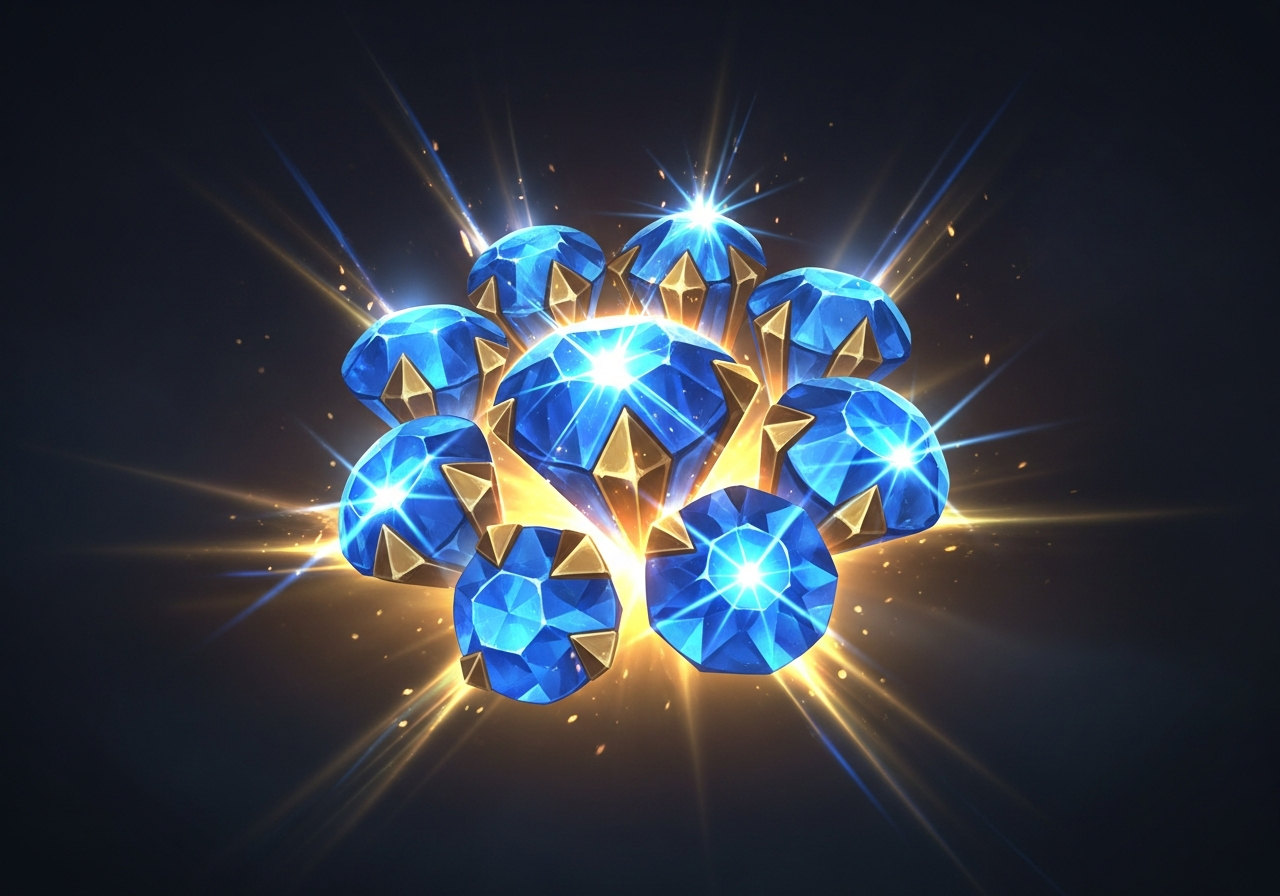
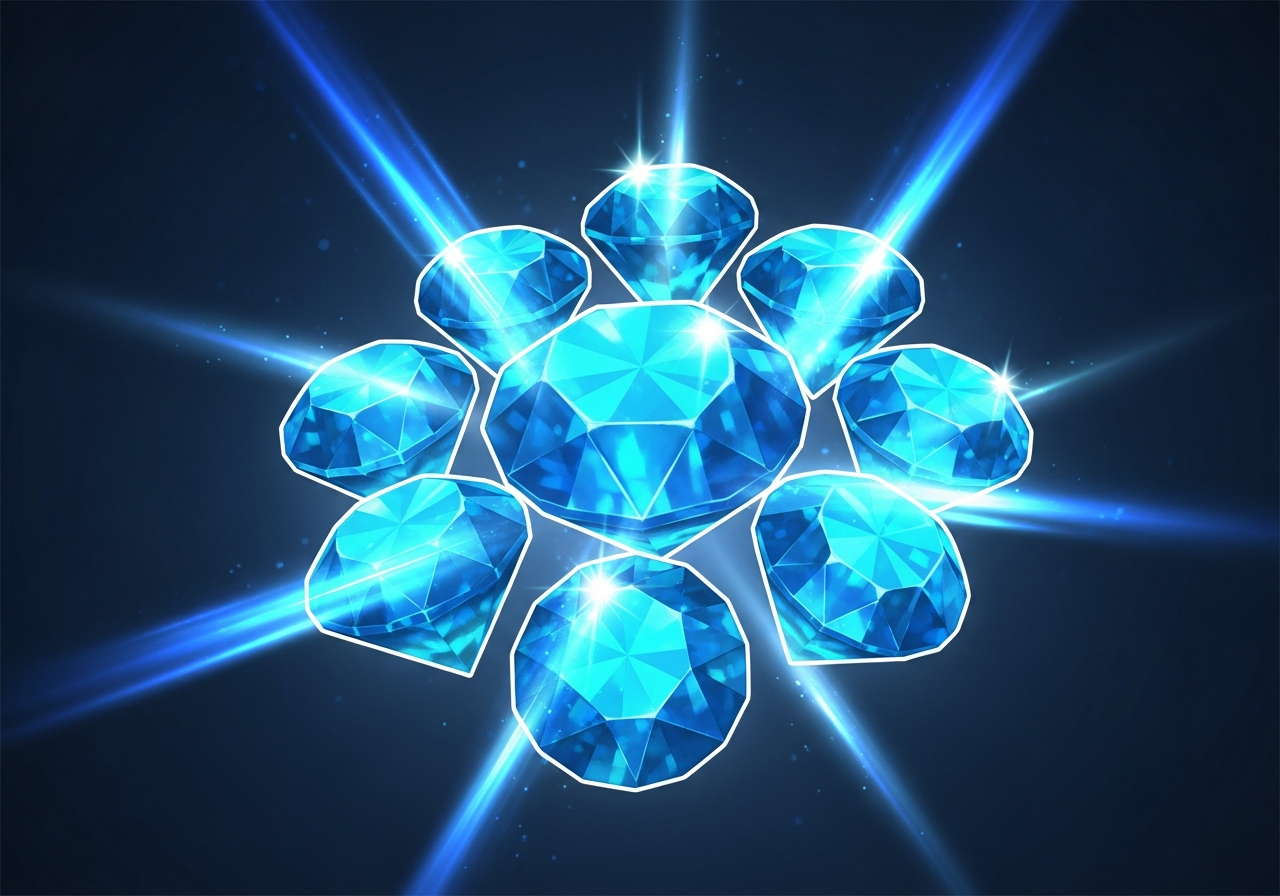
Update diamond images and animations to match game style
Fixes pack2.png to use only blue diamonds and updates SVG diamond animations in the PackagesSection.tsx to reflect the in-game MLBB 💎 style.

Replit-Commit-Author: Agent
Replit-Commit-Session-Id: 5e2ca1c8-3d09-4ccd-abc2-e811ee2ced2d
Replit-Commit-Checkpoint-Type: full_checkpoint
Replit-Commit-Event-Id: d2e871dd-0746-48d0-bce8-9e4ee957b2bf
Replit-Commit-Screenshot-Url: https://storage.googleapis.com/screenshot-production-us-central1/4ffd6c87-2c8b-4ada-9f70-06d95df73bbb/5e2ca1c8-3d09-4ccd-abc2-e811ee2ced2d/dw79hCr
Replit-Helium-Checkpoint-Created: true

diff --git a/artifacts/sky-official/src/components/PackagesSection.tsx b/artifacts/sky-official/src/components/PackagesSection.tsx
@@ -37,48 +37,75 @@ const CATEGORIES: Category[] = [
 
 // ── Animated Panels ─────────────────────────────────────────────────────────
 
+// MLBB-style 💎 diamond: flat-top crown + pointed pavilion
+function MLBBDiamond({ cx, cy, hw, gradId, opacity = 1, style }: {
+  cx: number; cy: number; hw: number; gradId: string; opacity?: number; style?: React.CSSProperties;
+}) {
+  // Outer shape (5 pts): table-left, table-right, belt-right, bottom, belt-left
+  const tl = `${cx - hw * 0.62},${cy - hw}`;
+  const tr = `${cx + hw * 0.62},${cy - hw}`;
+  const br = `${cx + hw},${cy - hw * 0.28}`;
+  const bl = `${cx - hw},${cy - hw * 0.28}`;
+  const bot = `${cx},${cy + hw}`;
+  // Belt y (for internal facet lines)
+  const by = cy - hw * 0.28;
+  // Inner crown highlight (bright trapezoid centred on table)
+  const hl = `${cx - hw * 0.32},${cy - hw} ${cx + hw * 0.32},${cy - hw} ${cx + hw * 0.2},${cy - hw * 0.55} ${cx - hw * 0.2},${cy - hw * 0.55}`;
+  return (
+    <g style={style} opacity={opacity}>
+      {/* Main body */}
+      <polygon points={`${tl} ${tr} ${br} ${bot} ${bl}`} fill={`url(#${gradId})`} />
+      {/* Crown face (slightly lighter overlay) */}
+      <polygon points={`${tl} ${tr} ${br} ${bl}`} fill="rgba(180,230,255,0.18)" />
+      {/* Crown table highlight */}
+      <polygon points={hl} fill="rgba(255,255,255,0.5)" />
+      {/* Left pavilion face */}
+      <polygon points={`${bl} ${cx},${by} ${bot}`} fill="rgba(0,55,150,0.38)" />
+      {/* Right pavilion face */}
+      <polygon points={`${br} ${cx},${by} ${bot}`} fill="rgba(0,30,120,0.5)" />
+      {/* Belt edge highlight line */}
+      <line x1={cx - hw} y1={by} x2={cx + hw} y2={by} stroke="rgba(255,255,255,0.28)" strokeWidth="0.6" />
+      {/* Centre pavilion ridge */}
+      <line x1={cx} y1={by} x2={cx} y2={cy + hw} stroke="rgba(255,255,255,0.18)" strokeWidth="0.5" />
+    </g>
+  );
+}
+
 function SmallPackAnim() {
   return (
     <svg viewBox="0 0 120 80" width="100%" height="100%" style={{ display: "block" }}>
       <defs>
-        <radialGradient id="sp-glow" cx="50%" cy="50%" r="50%">
-          <stop offset="0%" stopColor="#38bdf8" stopOpacity="0.18" />
+        <radialGradient id="sp-glow" cx="50%" cy="55%" r="52%">
+          <stop offset="0%" stopColor="#38bdf8" stopOpacity="0.22" />
           <stop offset="100%" stopColor="#0ea5e9" stopOpacity="0" />
         </radialGradient>
-        <linearGradient id="sp-d1" x1="0%" y1="0%" x2="100%" y2="100%">
-          <stop offset="0%" stopColor="#bae6fd" />
+        <linearGradient id="sp-d1" x1="0%" y1="0%" x2="60%" y2="100%">
+          <stop offset="0%" stopColor="#93e8ff" />
+          <stop offset="50%" stopColor="#38bdf8" />
+          <stop offset="100%" stopColor="#0369a1" />
+        </linearGradient>
+        <linearGradient id="sp-d2" x1="0%" y1="0%" x2="60%" y2="100%">
+          <stop offset="0%" stopColor="#e0f9ff" />
+          <stop offset="45%" stopColor="#7dd3fc" />
           <stop offset="100%" stopColor="#0284c7" />
         </linearGradient>
-        <linearGradient id="sp-d2" x1="0%" y1="0%" x2="100%" y2="100%">
-          <stop offset="0%" stopColor="#e0f2fe" />
-          <stop offset="100%" stopColor="#38bdf8" />
-        </linearGradient>
       </defs>
-      <ellipse cx="60" cy="52" rx="38" ry="14" fill="url(#sp-glow)" />
-      {/* Diamond 1 – left, small */}
-      <g style={{ animation: "sp-bob1 2.4s ease-in-out infinite", transformOrigin: "33px 42px" }}>
-        <polygon points="33,28 42,37 33,50 24,37" fill="url(#sp-d1)" opacity="0.92" />
-        <polygon points="33,28 38,34 33,37 28,34" fill="rgba(255,255,255,0.55)" />
-        <polygon points="33,50 38,43 33,37 28,43" fill="rgba(0,100,180,0.35)" />
-      </g>
-      {/* Diamond 2 – center, large */}
-      <g style={{ animation: "sp-bob2 2.0s ease-in-out infinite", transformOrigin: "60px 38px" }}>
-        <polygon points="60,18 74,32 60,54 46,32" fill="url(#sp-d2)" opacity="0.97" />
-        <polygon points="60,18 68,28 60,34 52,28" fill="rgba(255,255,255,0.6)" />
-        <polygon points="60,54 68,40 60,34 52,40" fill="rgba(0,80,160,0.35)" />
-      </g>
-      {/* Diamond 3 – right, small */}
-      <g style={{ animation: "sp-bob3 2.7s ease-in-out infinite", transformOrigin: "87px 44px" }}>
-        <polygon points="87,30 96,40 87,53 78,40" fill="url(#sp-d1)" opacity="0.88" />
-        <polygon points="87,30 92,37 87,40 82,37" fill="rgba(255,255,255,0.5)" />
-        <polygon points="87,53 92,45 87,40 82,45" fill="rgba(0,100,180,0.3)" />
-      </g>
+      <ellipse cx="60" cy="56" rx="40" ry="12" fill="url(#sp-glow)" />
+      {/* Left small diamond */}
+      <MLBBDiamond cx={30} cy={44} hw={10} gradId="sp-d1" opacity={0.9}
+        style={{ animation: "sp-bob1 2.4s ease-in-out infinite", transformOrigin: "30px 44px" }} />
+      {/* Centre large diamond */}
+      <MLBBDiamond cx={60} cy={37} hw={15} gradId="sp-d2" opacity={1}
+        style={{ animation: "sp-bob2 2.0s ease-in-out infinite", transformOrigin: "60px 37px" }} />
+      {/* Right small diamond */}
+      <MLBBDiamond cx={90} cy={44} hw={10} gradId="sp-d1" opacity={0.88}
+        style={{ animation: "sp-bob3 2.7s ease-in-out infinite", transformOrigin: "90px 44px" }} />
       {/* Sparkles */}
-      <circle cx="22" cy="22" r="1.5" fill="#bae6fd" style={{ animation: "sp-twinkle 1.8s ease-in-out infinite 0.2s" }} />
-      <circle cx="100" cy="18" r="2"   fill="#7dd3fc" style={{ animation: "sp-twinkle 2.1s ease-in-out infinite 0.6s" }} />
-      <circle cx="110" cy="55" r="1.2" fill="#e0f2fe" style={{ animation: "sp-twinkle 1.6s ease-in-out infinite 0.9s" }} />
-      <circle cx="10"  cy="60" r="1.8" fill="#7dd3fc" style={{ animation: "sp-twinkle 2.4s ease-in-out infinite 0.3s" }} />
-      <circle cx="60"  cy="10" r="1.3" fill="#bae6fd" style={{ animation: "sp-twinkle 1.9s ease-in-out infinite 1.1s" }} />
+      <circle cx="18" cy="20" r="1.5" fill="#bae6fd" style={{ animation: "sp-twinkle 1.8s ease-in-out infinite 0.2s" }} />
+      <circle cx="104" cy="18" r="2"   fill="#7dd3fc" style={{ animation: "sp-twinkle 2.1s ease-in-out infinite 0.6s" }} />
+      <circle cx="112" cy="56" r="1.2" fill="#e0f2fe" style={{ animation: "sp-twinkle 1.6s ease-in-out infinite 0.9s" }} />
+      <circle cx="8"   cy="58" r="1.8" fill="#7dd3fc" style={{ animation: "sp-twinkle 2.4s ease-in-out infinite 0.3s" }} />
+      <circle cx="60"  cy="9"  r="1.3" fill="#bae6fd" style={{ animation: "sp-twinkle 1.9s ease-in-out infinite 1.1s" }} />
     </svg>
   );
 }
@@ -91,33 +118,31 @@ function NormalPackAnim() {
           <stop offset="0%" stopColor="#f59e0b" stopOpacity="0.22" />
           <stop offset="100%" stopColor="#f59e0b" stopOpacity="0" />
         </radialGradient>
-        <linearGradient id="np-d1" x1="0%" y1="0%" x2="100%" y2="100%">
-          <stop offset="0%" stopColor="#bae6fd" /><stop offset="100%" stopColor="#0284c7" />
+        <linearGradient id="np-d1" x1="0%" y1="0%" x2="60%" y2="100%">
+          <stop offset="0%" stopColor="#93e8ff" />
+          <stop offset="50%" stopColor="#38bdf8" />
+          <stop offset="100%" stopColor="#0369a1" />
         </linearGradient>
-        <linearGradient id="np-d2" x1="0%" y1="0%" x2="100%" y2="100%">
-          <stop offset="0%" stopColor="#e0f2fe" /><stop offset="100%" stopColor="#38bdf8" />
+        <linearGradient id="np-d2" x1="0%" y1="0%" x2="60%" y2="100%">
+          <stop offset="0%" stopColor="#e0f9ff" />
+          <stop offset="45%" stopColor="#7dd3fc" />
+          <stop offset="100%" stopColor="#0284c7" />
         </linearGradient>
       </defs>
-      <ellipse cx="60" cy="60" rx="48" ry="14" fill="url(#np-glow)" />
+      <ellipse cx="60" cy="62" rx="46" ry="12" fill="url(#np-glow)" />
       {/* Rotating gold ring */}
       <circle cx="60" cy="40" r="30" fill="none" stroke="#f59e0b" strokeWidth="0.6" strokeOpacity="0.25"
         strokeDasharray="6 4" style={{ animation: "np-ring 6s linear infinite", transformOrigin: "60px 40px" }} />
-      {/* Back diamonds */}
-      <g style={{ animation: "sp-bob3 2.6s ease-in-out infinite 0.4s", transformOrigin: "38px 48px" }} opacity="0.7">
-        <polygon points="38,34 46,44 38,56 30,44" fill="url(#np-d1)" />
-        <polygon points="38,34 43,40 38,43 33,40" fill="rgba(255,255,255,0.45)" />
-      </g>
-      <g style={{ animation: "sp-bob1 2.9s ease-in-out infinite 0.7s", transformOrigin: "82px 46px" }} opacity="0.7">
-        <polygon points="82,32 90,43 82,56 74,43" fill="url(#np-d1)" />
-        <polygon points="82,32 87,39 82,42 77,39" fill="rgba(255,255,255,0.45)" />
-      </g>
+      {/* Back-left diamond */}
+      <MLBBDiamond cx={35} cy={48} hw={10} gradId="np-d1" opacity={0.68}
+        style={{ animation: "sp-bob3 2.6s ease-in-out infinite 0.4s", transformOrigin: "35px 48px" }} />
+      {/* Back-right diamond */}
+      <MLBBDiamond cx={85} cy={47} hw={10} gradId="np-d1" opacity={0.68}
+        style={{ animation: "sp-bob1 2.9s ease-in-out infinite 0.7s", transformOrigin: "85px 47px" }} />
       {/* Front large diamond */}
-      <g style={{ animation: "sp-bob2 2.1s ease-in-out infinite", transformOrigin: "60px 36px" }}>
-        <polygon points="60,14 78,32 60,58 42,32" fill="url(#np-d2)" opacity="0.97" />
-        <polygon points="60,14 70,26 60,34 50,26" fill="rgba(255,255,255,0.6)" />
-        <polygon points="60,58 70,42 60,34 50,42" fill="rgba(0,80,160,0.35)" />
-      </g>
-      {/* Sparkles */}
+      <MLBBDiamond cx={60} cy={36} hw={18} gradId="np-d2" opacity={1}
+        style={{ animation: "sp-bob2 2.1s ease-in-out infinite", transformOrigin: "60px 36px" }} />
+      {/* Sparkles — gold to match the category colour */}
       {[[16,16,1.8,0],[104,20,1.4,0.5],[112,58,1.6,1],[8,62,1.3,0.8],[60,7,1.5,1.4],[96,60,1.2,0.3]].map(([x,y,r,d],i) => (
         <circle key={i} cx={x} cy={y} r={r} fill="#fde68a" style={{ animation: `sp-twinkle ${1.6+Number(d)}s ease-in-out infinite ${d}s` }} />
       ))}
@@ -129,33 +154,31 @@ function DoubleDiamondAnim() {
   return (
     <svg viewBox="0 0 120 80" width="100%" height="100%" style={{ display: "block" }}>
       <defs>
-        <linearGradient id="dd-d1" x1="0%" y1="0%" x2="100%" y2="100%">
-          <stop offset="0%" stopColor="#a5f3fc" /><stop offset="100%" stopColor="#0ea5e9" />
+        <linearGradient id="dd-d1" x1="0%" y1="0%" x2="60%" y2="100%">
+          <stop offset="0%" stopColor="#a5f3fc" />
+          <stop offset="50%" stopColor="#22d3ee" />
+          <stop offset="100%" stopColor="#0369a1" />
         </linearGradient>
-        <linearGradient id="dd-d2" x1="0%" y1="0%" x2="100%" y2="100%">
-          <stop offset="0%" stopColor="#cffafe" /><stop offset="100%" stopColor="#06b6d4" />
+        <linearGradient id="dd-d2" x1="0%" y1="0%" x2="60%" y2="100%">
+          <stop offset="0%" stopColor="#e0f9ff" />
+          <stop offset="45%" stopColor="#67e8f9" />
+          <stop offset="100%" stopColor="#0284c7" />
         </linearGradient>
         <filter id="dd-blur"><feGaussianBlur stdDeviation="3" /></filter>
       </defs>
       {/* Glow blobs */}
-      <ellipse cx="38" cy="42" rx="20" ry="20" fill="#0ea5e9" fillOpacity="0.15" filter="url(#dd-blur)"
-        style={{ animation: "dd-pulse1 2s ease-in-out infinite", transformOrigin: "38px 42px" }} />
-      <ellipse cx="82" cy="42" rx="20" ry="20" fill="#00e5ff" fillOpacity="0.15" filter="url(#dd-blur)"
-        style={{ animation: "dd-pulse2 2s ease-in-out infinite", transformOrigin: "82px 42px" }} />
-      {/* Left diamond */}
-      <g style={{ animation: "dd-pulse1 2s ease-in-out infinite", transformOrigin: "38px 40px" }}>
-        <polygon points="38,18 54,34 38,58 22,34" fill="url(#dd-d1)" />
-        <polygon points="38,18 47,28 38,34 29,28" fill="rgba(255,255,255,0.55)" />
-        <polygon points="38,58 47,44 38,34 29,44" fill="rgba(0,80,160,0.3)" />
-      </g>
-      {/* Right diamond */}
-      <g style={{ animation: "dd-pulse2 2s ease-in-out infinite", transformOrigin: "82px 40px" }}>
-        <polygon points="82,18 98,34 82,58 66,34" fill="url(#dd-d2)" />
-        <polygon points="82,18 91,28 82,34 73,28" fill="rgba(255,255,255,0.55)" />
-        <polygon points="82,58 91,44 82,34 73,44" fill="rgba(0,80,160,0.3)" />
-      </g>
+      <ellipse cx="36" cy="44" rx="18" ry="18" fill="#0ea5e9" fillOpacity="0.15" filter="url(#dd-blur)"
+        style={{ animation: "dd-pulse1 2s ease-in-out infinite", transformOrigin: "36px 44px" }} />
+      <ellipse cx="84" cy="44" rx="18" ry="18" fill="#00e5ff" fillOpacity="0.15" filter="url(#dd-blur)"
+        style={{ animation: "dd-pulse2 2s ease-in-out infinite", transformOrigin: "84px 44px" }} />
+      {/* Left MLBB diamond */}
+      <MLBBDiamond cx={36} cy={40} hw={17} gradId="dd-d1" opacity={1}
+        style={{ animation: "dd-pulse1 2s ease-in-out infinite", transformOrigin: "36px 40px" }} />
+      {/* Right MLBB diamond */}
+      <MLBBDiamond cx={84} cy={40} hw={17} gradId="dd-d2" opacity={1}
+        style={{ animation: "dd-pulse2 2s ease-in-out infinite", transformOrigin: "84px 40px" }} />
       {/* ×2 label */}
-      <text x="60" y="44" textAnchor="middle" fontSize="10" fontWeight="900" fill="#00e5ff" opacity="0.9"
+      <text x="60" y="46" textAnchor="middle" fontSize="10" fontWeight="900" fill="#00e5ff" opacity="0.92"
         style={{ animation: "sp-twinkle 2s ease-in-out infinite" }}>×2</text>
       {/* Sparkles */}
       {[[12,12,1.5,0],[60,8,1.8,0.6],[108,14,1.4,0.3],[6,70,1.3,1],[114,68,1.6,0.9]].map(([x,y,r,d],i) => (
